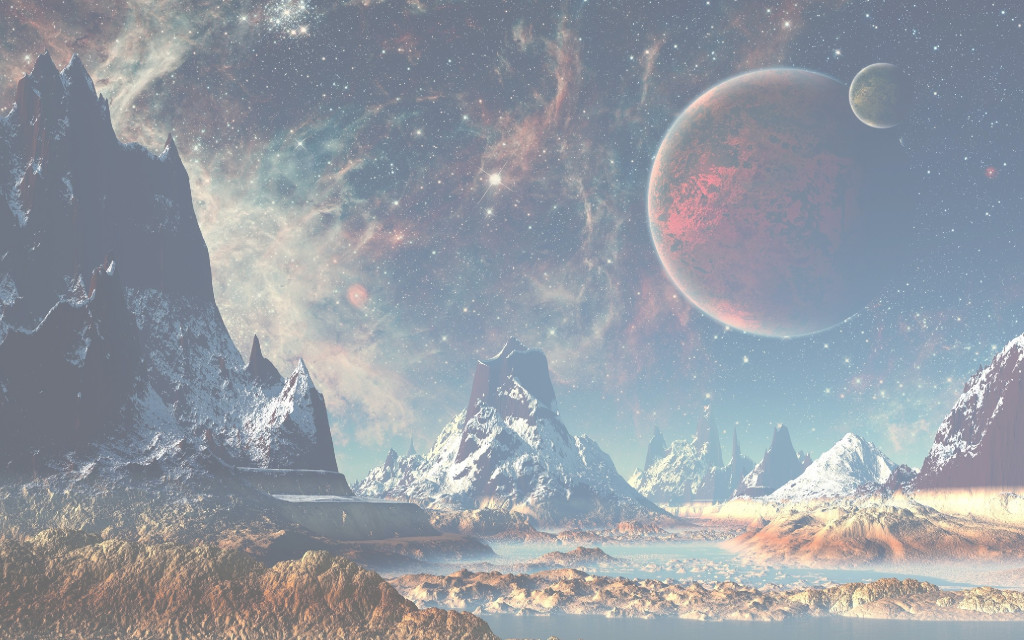
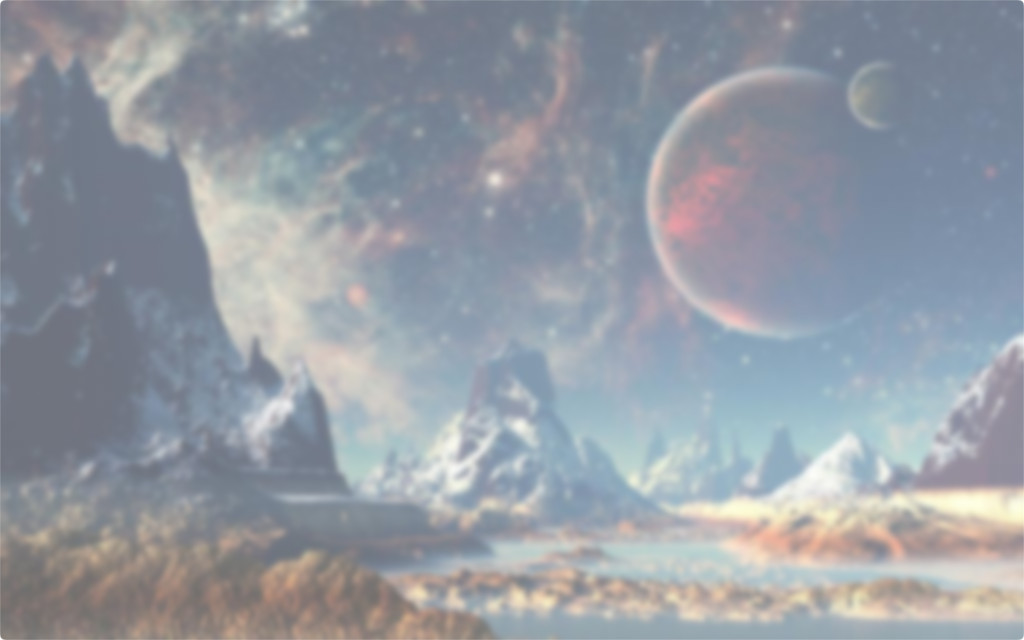
Some changes, blur filter in tryout again

diff --git a/static/css/styles.css b/static/css/styles.css
@@ -367,16 +367,22 @@ body {
 .left-column {
   /*background-color: #343a40 !important;*/
   /*filter: blur(2px);*/
-  background-color: rgba(41, 41, 41, 0.29);
+  /*background-color: rgba(41, 41, 41, 0.29);*/
   /*opacity: 0.5;*/
   margin-top: -72px;
   min-height: 1000px;
+  /*
   -webkit-filter: blur(5px);
   -moz-filter: blur(5px);
   -o-filter: blur(5px);
   -ms-filter: blur(5px);
-  filter: blur(5px);
-  border: ridge 1px #000000;
+  filter: blur(5px);*/
+  /*border: ridge 1px #000000;*/
+  background: url("../img/blur.png") no-repeat center center fixed;
+  background-size: cover;
+  -webkit-background-size: cover;
+  -moz-background-size: cover;
+  -o-background-size: cover;
 }
 .right-column {
   margin-top: -72px;
@@ -394,5 +400,19 @@ body {
   font-size: 50px !important;
 }
 .fa-search:hover {
+  color: gray;
+}
+.fa-user {
+  color: #FFFFFF;
+  font-size: 50px !important;
+}
+.fa-user:hover {
+  color: gray;
+}
+.fa-power-off {
+  color: #FFFFFF;
+  font-size: 50px !important;
+}
+.fa-power-off:hover {
   color: gray;
 }

diff --git a/index.html b/index.html
@@ -57,10 +57,20 @@
         <a href="#">
           <i class="fa fa-home"></i>
         </a>
-        <br />
+        <hr />
         <br />
         <a href="#">
           <i class="fa fa-search"></i>
+        </a>
+        <br />
+        <br />
+        <a href="#">
+          <i class="fa fa-user"></i>
+        </a>
+        <br />
+        <br />
+        <a href="#">
+          <i class="fa fa-power-off"></i>
         </a>
       </div>
 
